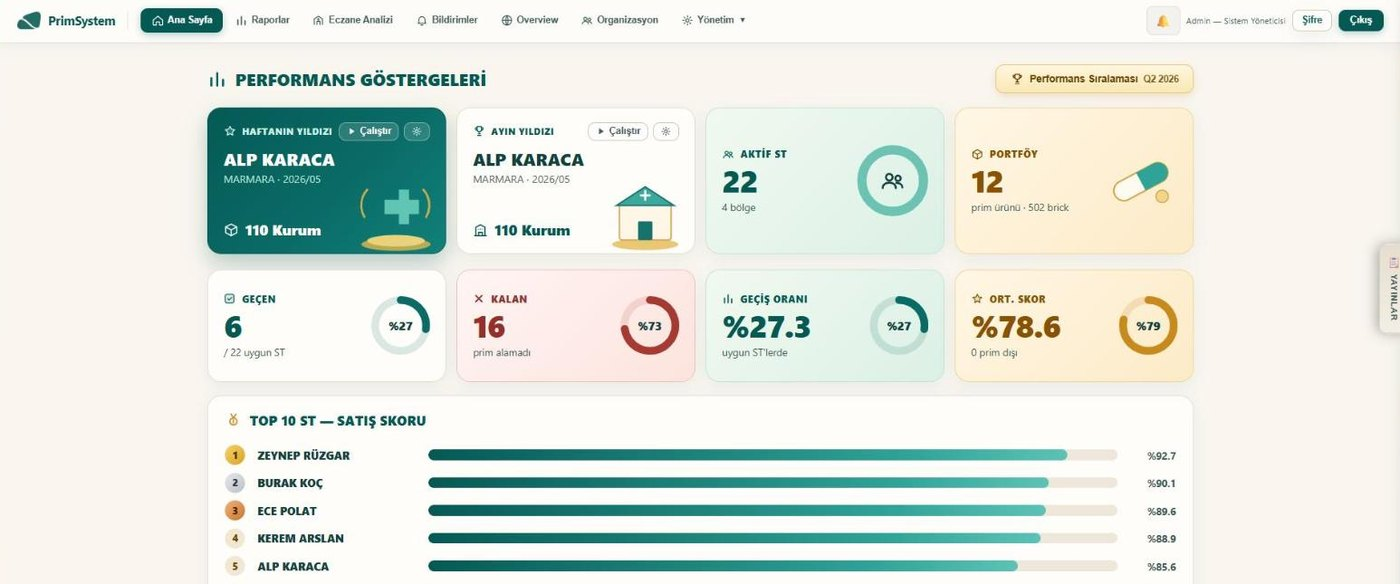
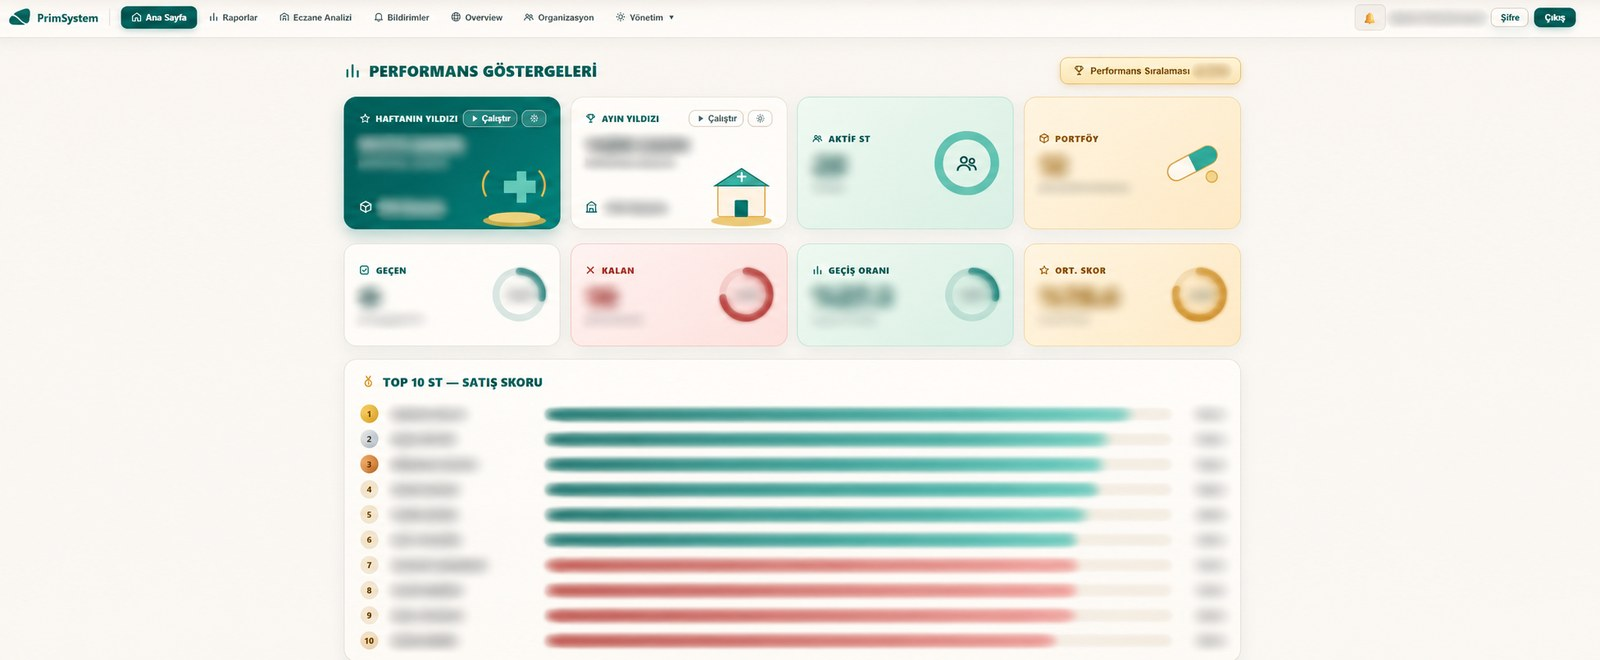
docs: README görsellerini SFS / SFS2 ile değiştir
- Beş ekran görüntüsü yerine iki görsel: giriş sayfası (SFS) ve
  bulanıklaştırılmış ana sayfa (SFS2). Kullanılmayan reports, organization
  ve leaderboard görselleri kaldırıldı.
- Sosyal önizleme (docs/social-preview.png) SFS2'den yeniden üretildi.

diff --git a/README.md b/README.md
@@ -9,16 +9,15 @@ A **quarterly bonus calculation, performance scoring and field analytics** platf
 
 ## Screenshots
 
-> The names below are **fictional placeholders**. The figures come from a local development database; no real employee data is published in this repository.
+> Taken from a local development database. Names and figures are blurred; no real employee data is published in this repository.
 
-| | |
-|---|---|
-| ![Sign-in page](docs/screenshots/login.jpg) | ![Dashboard with star badges, KPI rings and the top-10 ranking](docs/screenshots/dashboard.jpg) |
-| **Sign-in** | **Dashboard**: star badges, pass / fail rings, top-10 ranking |
-| ![Reports page with summary cards and the regional summary table](docs/screenshots/reports.jpg) | ![Organization management with region cards and active sessions](docs/screenshots/organization.jpg) |
-| **Reports**: period filters, summary cards, regional summary | **Organization**: regions, BM / ST rows, active sessions |
-| ![Order leaderboard dialog](docs/screenshots/leaderboard.jpg) | |
-| **Order leaderboard** | |
+**Sign-in**
+
+![Sign-in page](docs/screenshots/login.jpg)
+
+**Dashboard**: star badges, pass / fail rings, top-10 ranking
+
+![Dashboard with star badges, KPI rings and the top-10 ranking](docs/screenshots/dashboard.jpg)
 
 ---
 
